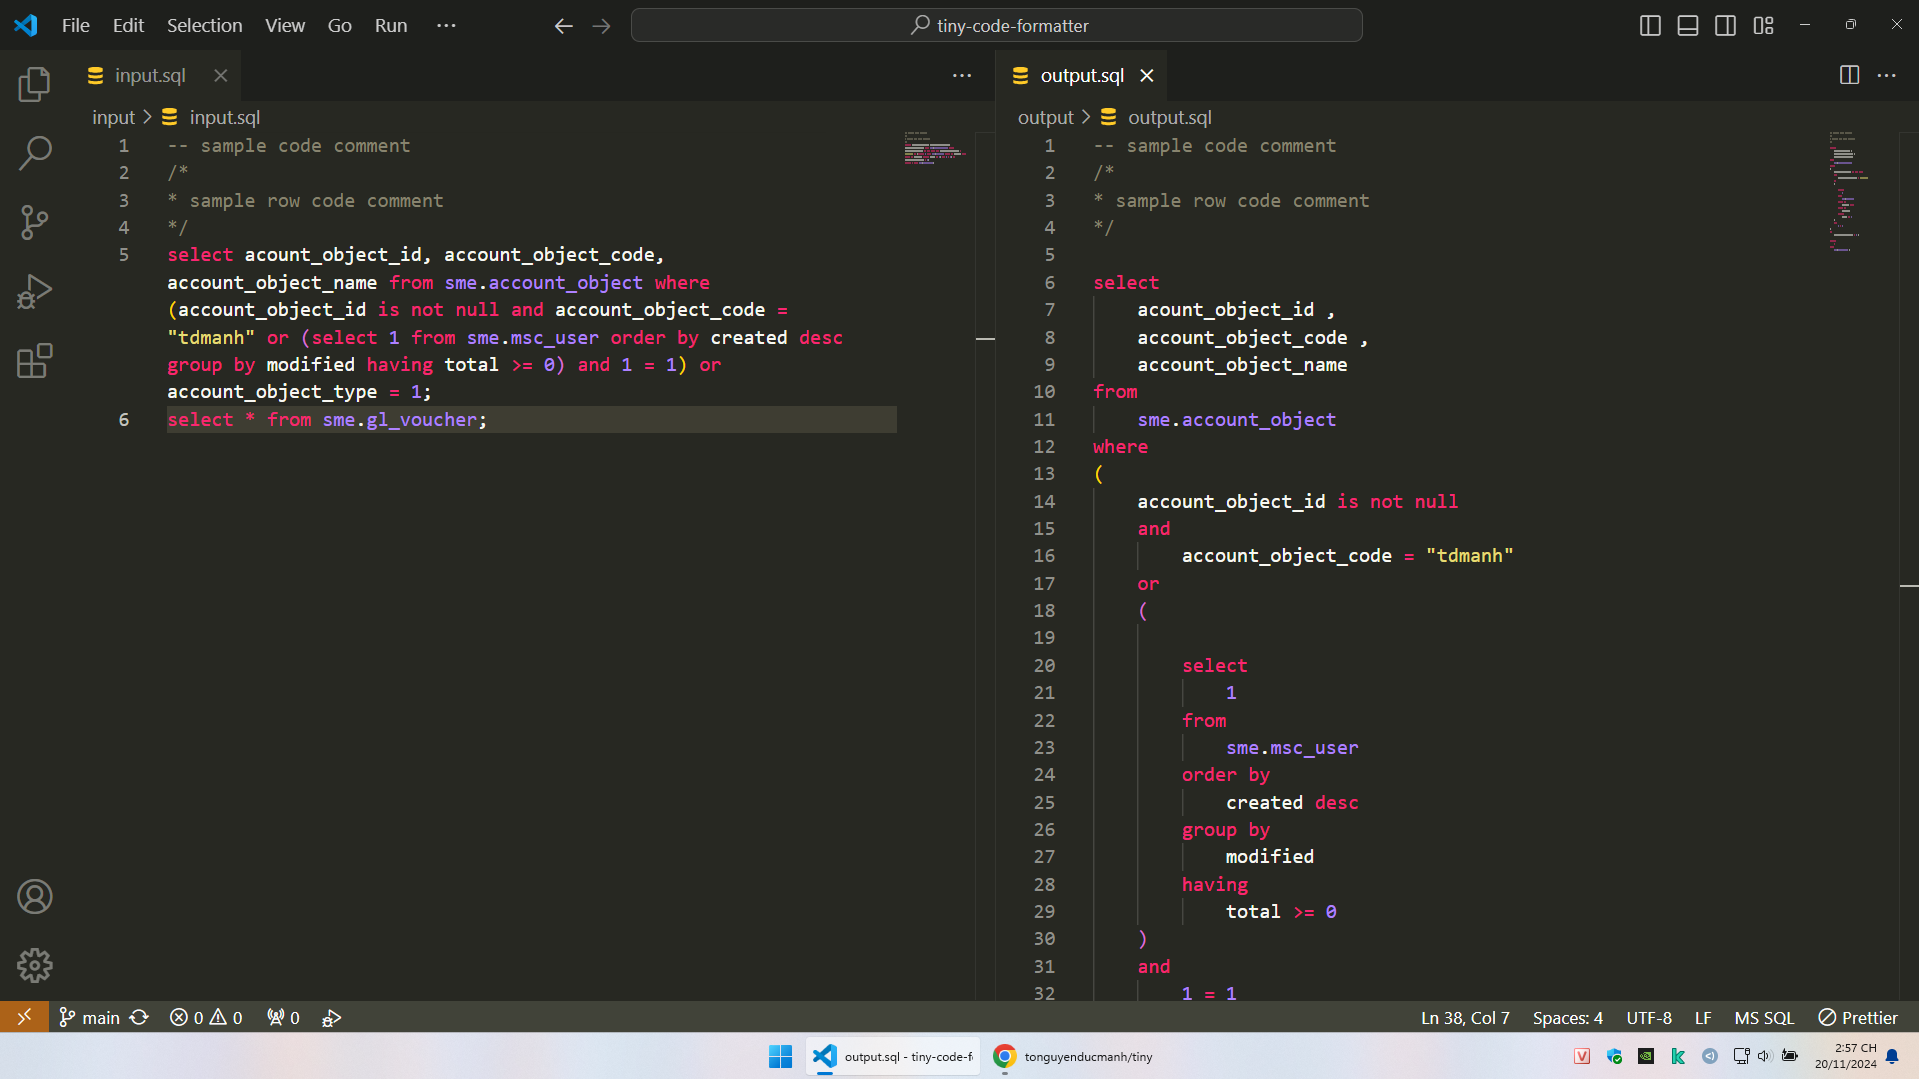
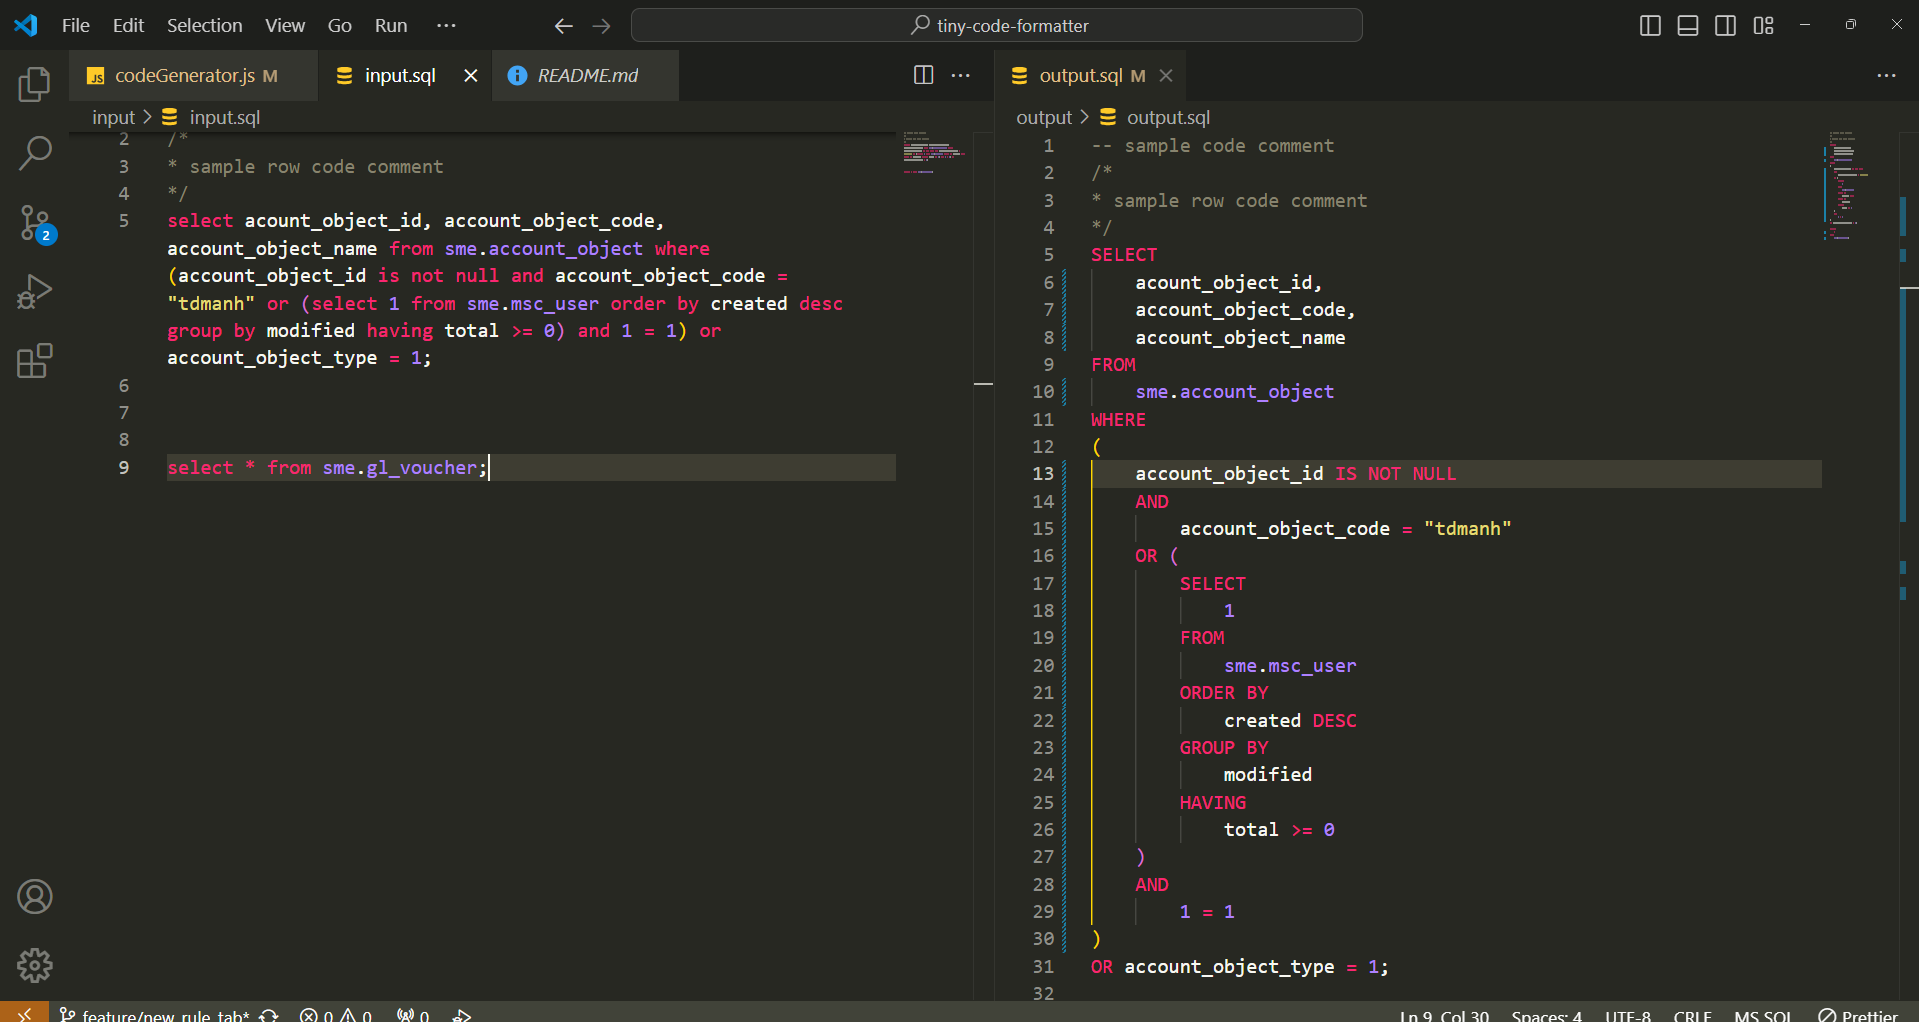
roll back code cũ

diff --git a/src/codeGenerator.js b/src/codeGenerator.js
@@ -2,13 +2,23 @@ import { config } from "./config.js";
 import { enumeration } from "./enumeration.js";
 import { postgreSQLKeyword } from "./postgreSQLKeyword.js";
 
+const TAB = config.tabSpace;
 let _currentLevel = 0;
+let _startNewLine = false;
+let _lastRecusiveValue = null;
 /**
  * biến đổi từ tree thành code đã format
  * @param {Abstract Syntax Tree node} node
  */
 export function codeGenerator(node, index, allNodes) {
+  if (!_lastRecusiveValue) {
+    _startNewLine = true;
+  }
+  let tabSpace = _currentLevel > 0 ? TAB.repeat(_currentLevel) : "";
+  let tabForNewLine = _startNewLine ? TAB : "";
+  let tabForSemi = TAB.repeat(_currentLevel - 1 > 0 ? _currentLevel : 0);
   let result = null;
+  _startNewLine = false;
   switch (node.type) {
     // node là program thì chạy toàn bộ các node con
     case enumeration.astType.program: {
@@ -30,31 +40,34 @@ export function codeGenerator(node, index, allNodes) {
       break;
     }
     case enumeration.astType.semi: {
-      result = node.value + "\n";
+      _startNewLine = true;
+      result = node.value + "\n" + tabForSemi;
       break;
     }
     case enumeration.astType.keyword: {
-      result = buildKeyWordText(node, allNodes, index);
+      result = buildKeyWordText(node, tabSpace, tabForNewLine, allNodes, index);
       break;
     }
     case enumeration.astType.number: {
       let subFix = buildSubFix(allNodes, index);
-      result = node.value + subFix;
+      result = tabForNewLine + node.value + subFix;
       break;
     }
     case enumeration.astType.text: {
-      result = '"' + node.value + '"';
+      result = tabForNewLine + '"' + node.value + '"';
       break;
     }
     case enumeration.astType.callExpression: {
-      result = buildCallExpressionText(node);
+      result = buildCallExpressionText(node, tabSpace);
       break;
     }
     default:
       throw new TypeError(node.type);
   }
+  _lastRecusiveValue = result;
   return result;
 }
+
 /**
  * kiểm tra và build ra hậu tố cho text hiện tại
  * @param {*} allNodes tất cả các node
@@ -75,14 +88,17 @@ function buildSubFix(allNodes, index) {
   }
   return subFix;
 }
+
 /**
  * build ra đoạn text tương ứng với các text trong dấu ()
  * @param {*} node node hiện tại trong cây ast
+ * @param {*} tabSpace khoảng cách thụt lề (so với thụt lề của dòng bên trên)
  * @returns result
  */
-function buildCallExpressionText(node) {
+function buildCallExpressionText(node, tabSpace) {
   let result = null;
   _currentLevel++;
+  _startNewLine = true;
   // kiểm tra xem ngoặc có giá trị gì bên trong không
   let parenthesisValue = null;
   if (node?.params?.length > 0) {
@@ -91,21 +107,24 @@ function buildCallExpressionText(node) {
       .join("");
   }
   if (parenthesisValue) {
-    result = ["(", parenthesisValue + ")"].join("\n");
+    result = ["(", parenthesisValue, tabSpace + ")"].join("\n");
   } else {
     result = "()";
   }
   _currentLevel--;
   return result;
 }
+
 /**
  * build ra đoạn text tương ứng với keyword vd select
  * @param {*} node node hiện tại trong cây ast
+ * @param {*} tabSpace khoảng cách thụt lề (so với thụt lề của dòng bên trên)
+ * @param {*} tabForNewLine khoảng cách thụt lề cho dòng mới
  * @param {*} allNodes tất cả các node
  * @param {*} index index của node hiện tại
  * @returns result
  */
-function buildKeyWordText(node, allNodes, index) {
+function buildKeyWordText(node, tabSpace, tabForNewLine, allNodes, index) {
   let result = null;
   let valueBuild = node.value;
   // kiểm tra xem có auto viết hoa từ khóa này không
@@ -124,21 +143,21 @@ function buildKeyWordText(node, allNodes, index) {
       node.value.compareStartText(x)
     )
   ) {
-    result = "\n" + valueBuild + subFix;
+    result = "\n" + tabSpace + valueBuild + subFix;
   }
-
   // kiểm tra xem trong danh sách config có ông nào end với text dưới
   else if (
     config.listMutipleKeyWordBreakLine.find((x) => node.value.compareEndText(x))
   ) {
-    result = valueBuild + "\n";
+    _startNewLine = true;
+    result = valueBuild + "\n" + tabSpace;
   }
-
   // kiểm tra xem phải danh sách các từ bắt đầu xuống dòng không
   else if (config.listKeyWordBreakLine.find((x) => node.value.compareText(x))) {
-    result = "\n" + valueBuild + "\n";
+    _startNewLine = true;
+    result = "\n" + tabSpace + valueBuild + "\n" + tabSpace;
   } else {
-    result = valueBuild + subFix;
+    result = tabForNewLine + valueBuild + subFix;
   }
   return result;
 }

diff --git a/README.md b/README.md
@@ -1,5 +1,7 @@
 # project format code postgre sql đơn giản bằng nodejs
 
+note: project này mới chỉ làm được việc đọc file sql thành các token và biến đổi thành cây ast cơ bản, việc xử lý từ cây ast về thành đoạn mã formatted mới chỉ đáp ứng được 1 số trường hợp cơ bản
+
 demo việc format code
 
 ![demo](img/demo.png)
